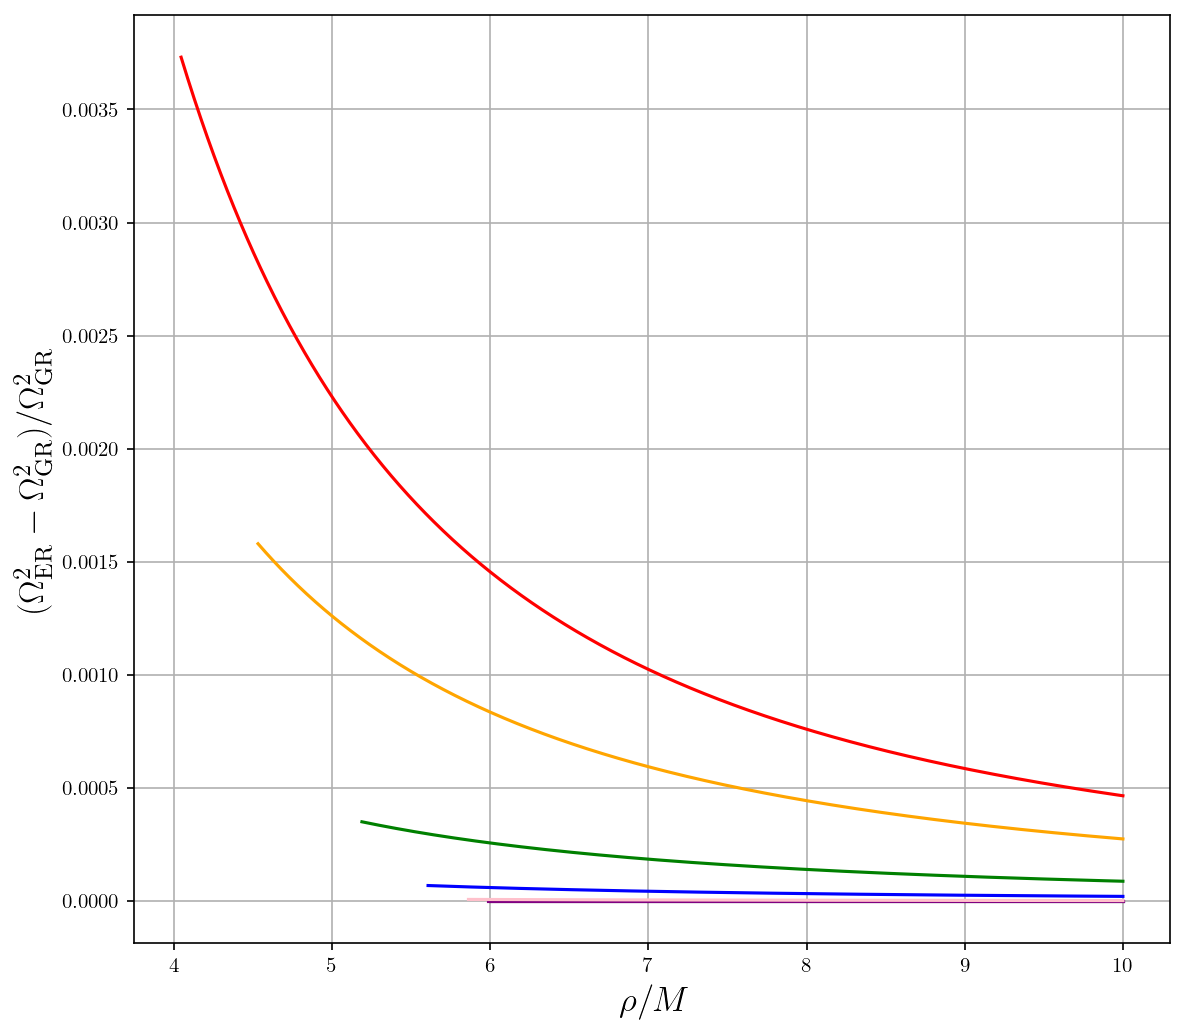
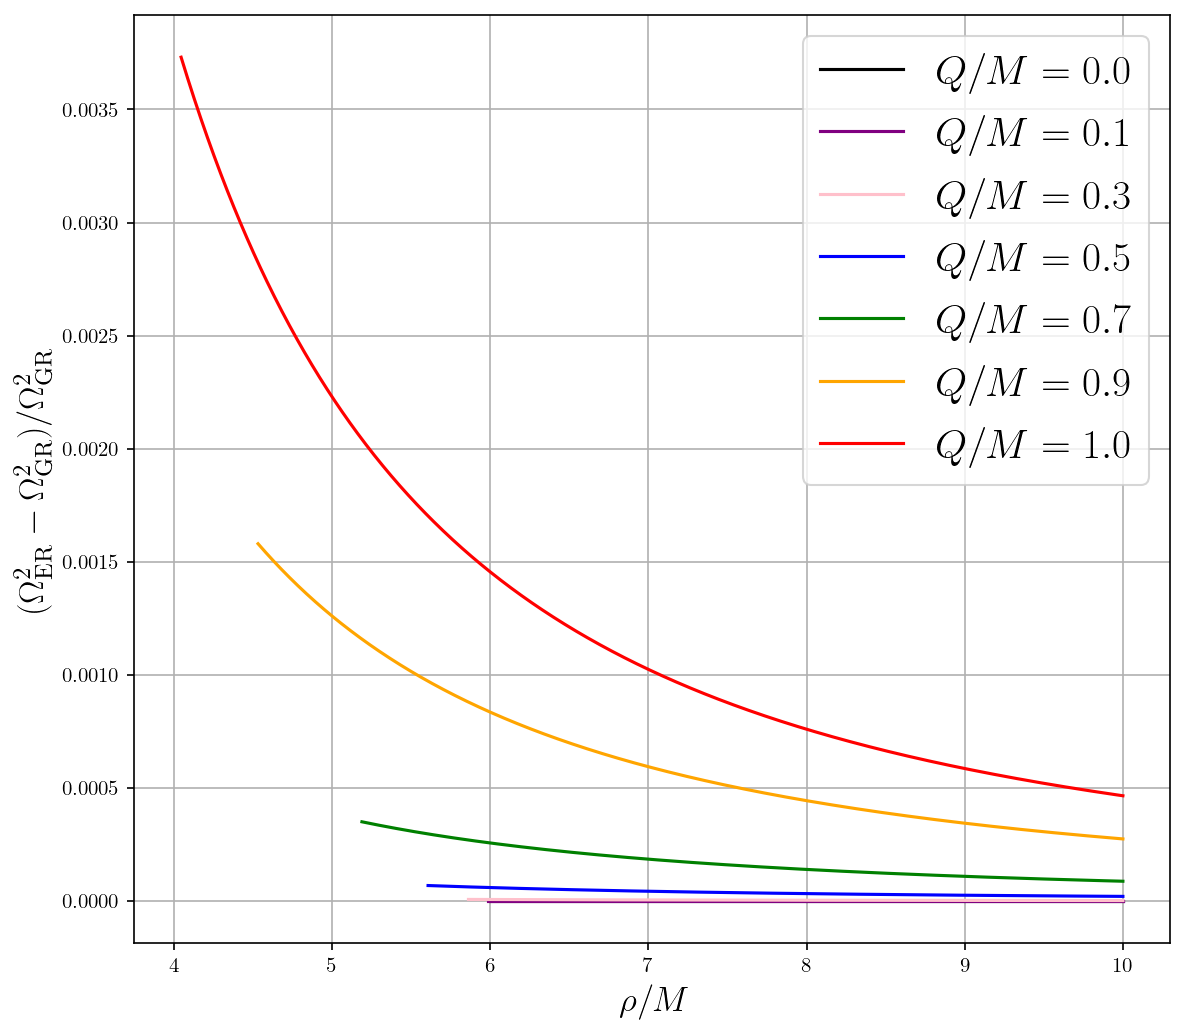
Update

Changed region(s): [[0.6562, 0.0309, 0.9688, 0.4638], [0.9062, 0.0309, 0.9688, 0.1546]]

diff --git a/LaTeX Presentation/presentation.tex b/LaTeX Presentation/presentation.tex
@@ -172,17 +172,16 @@ with $T_{\mu\nu} = -\frac{2}{\sqrt{|g|}}\pdv{(\sqrt{|g|}\mcal L_m)}{g^{\mu\nu}}$
         S\bracket{g, \phi, \Psi} = \int \paren{\frac{\phi R}{2} + \sqrt{\phi}\mcal L_m}\sqrt{|g|}\mrm d^4x
     \end{equation}
 
-    or with $\phi = \kappa^{-2}$:
+    or with $\phi = \kappa^{-2}_\mrm{ER}$:
 
     \begin{equation}
-        S\bracket{g, \kappa, \Psi} = \int \frac{1}{\kappa}\paren{\frac{R}{2\kappa} + \mcal L_m}\sqrt{|g|}\mrm d^4x
+        S\bracket{g, \kappa_\mrm{ER}, \Psi} = \int \frac{1}{\kappa_\mrm{ER}}\paren{\frac{R}{2\kappa_\mrm{ER}} + \mcal L_m}\sqrt{|g|}\mrm d^4x
     \end{equation}
 
-    % Réfléchir à la notation sur kappa
     Field equation:
 
     \begin{equation}
-        3\kappa^2\square \kappa^{-2} = \kappa \paren{T - \mcal L_m}
+        3\kappa_\mrm{ER}^2\square \kappa_\mrm{ER}^{-2} = \kappa_\mrm{ER} \paren{T - \mcal L_m}
     \end{equation}
   
 \end{frame}
@@ -190,7 +189,7 @@ with $T_{\mu\nu} = -\frac{2}{\sqrt{|g|}}\pdv{(\sqrt{|g|}\mcal L_m)}{g^{\mu\nu}}$
 \subsection{Charged Black Holes in Entangled Relativity}
 \begin{frame}{Charged Black Holes in Entangled Relativity}
   
-    Charged black hole solution of ER: % Rajouter référence
+    Charged black hole solution of ER: [Minazzoli \& Santos, 2021]
 
     \begin{align}
         \mrm ds^2 = &-\paren{1 - \frac{r_+}{r}}\paren{1 - \frac{r_-}{r}}^{15/13}\mrm dt^2 \notag\\
@@ -208,7 +207,7 @@ with $T_{\mu\nu} = -\frac{2}{\sqrt{|g|}}\pdv{(\sqrt{|g|}\mcal L_m)}{g^{\mu\nu}}$
 
 \begin{frame}{Conformal Transformation}
     
-    Einstein frame obtained by: % Jordan frame = pass de couplace phi et L_m
+    Einstein frame obtained by: % Jordan frame = pas de couplage phi et L_m
 
     \begin{equation}
         g_{\mu\nu} \mapsto \tilde g_{\mu\nu} = \phi g_{\mu\nu} 
@@ -239,8 +238,7 @@ with $T_{\mu\nu} = -\frac{2}{\sqrt{|g|}}\pdv{(\sqrt{|g|}\mcal L_m)}{g^{\mu\nu}}$
 
     \vspace{20pt}
 
-    Schematically: "$\tilde g \equiv g + \phi$"
-    % Réfléchir à ça, "inter" ?
+    Schematically: "$\tilde g \equiv g \cap \phi$"
 \end{frame}
 
 \begin{frame}{Domain of Validity of the Solution}
@@ -363,7 +361,6 @@ with $T_{\mu\nu} = -\frac{2}{\sqrt{|g|}}\pdv{(\sqrt{|g|}\mcal L_m)}{g^{\mu\nu}}$
     \begin{figure}
         \includegraphics[width=0.7\linewidth]{images/Kepler2.png}
     \end{figure}
-    % Add legend
   
 \end{frame}
 
@@ -458,6 +455,20 @@ with $T_{\mu\nu} = -\frac{2}{\sqrt{|g|}}\pdv{(\sqrt{|g|}\mcal L_m)}{g^{\mu\nu}}$
     
 \end{frame}
 
-\end{document}
+\begin{frame}[noframenumbering]
+    On-shell lagrangian density for the charged black hole solution: [Wavasseur, Abrial \& al., 2025]
 
-% Backup : Montrer R et L_m proportionnel à Q^2
+    \begin{equation}
+        \mcal L_m = \frac{Q^2}{\paren{1 - r_-}^{8/13}r^{44/13}}
+    \end{equation}
+
+    Ricci scalar:
+
+    \begin{equation}
+        R = -\frac{Q^2}{\paren{r - r_-}^{6/13}r^{46/13}}
+    \end{equation}
+
+    $\Rightarrow R / \mcal L_m$ well-defined as $Q \to 0$.
+\end{frame}
+
+\end{document}